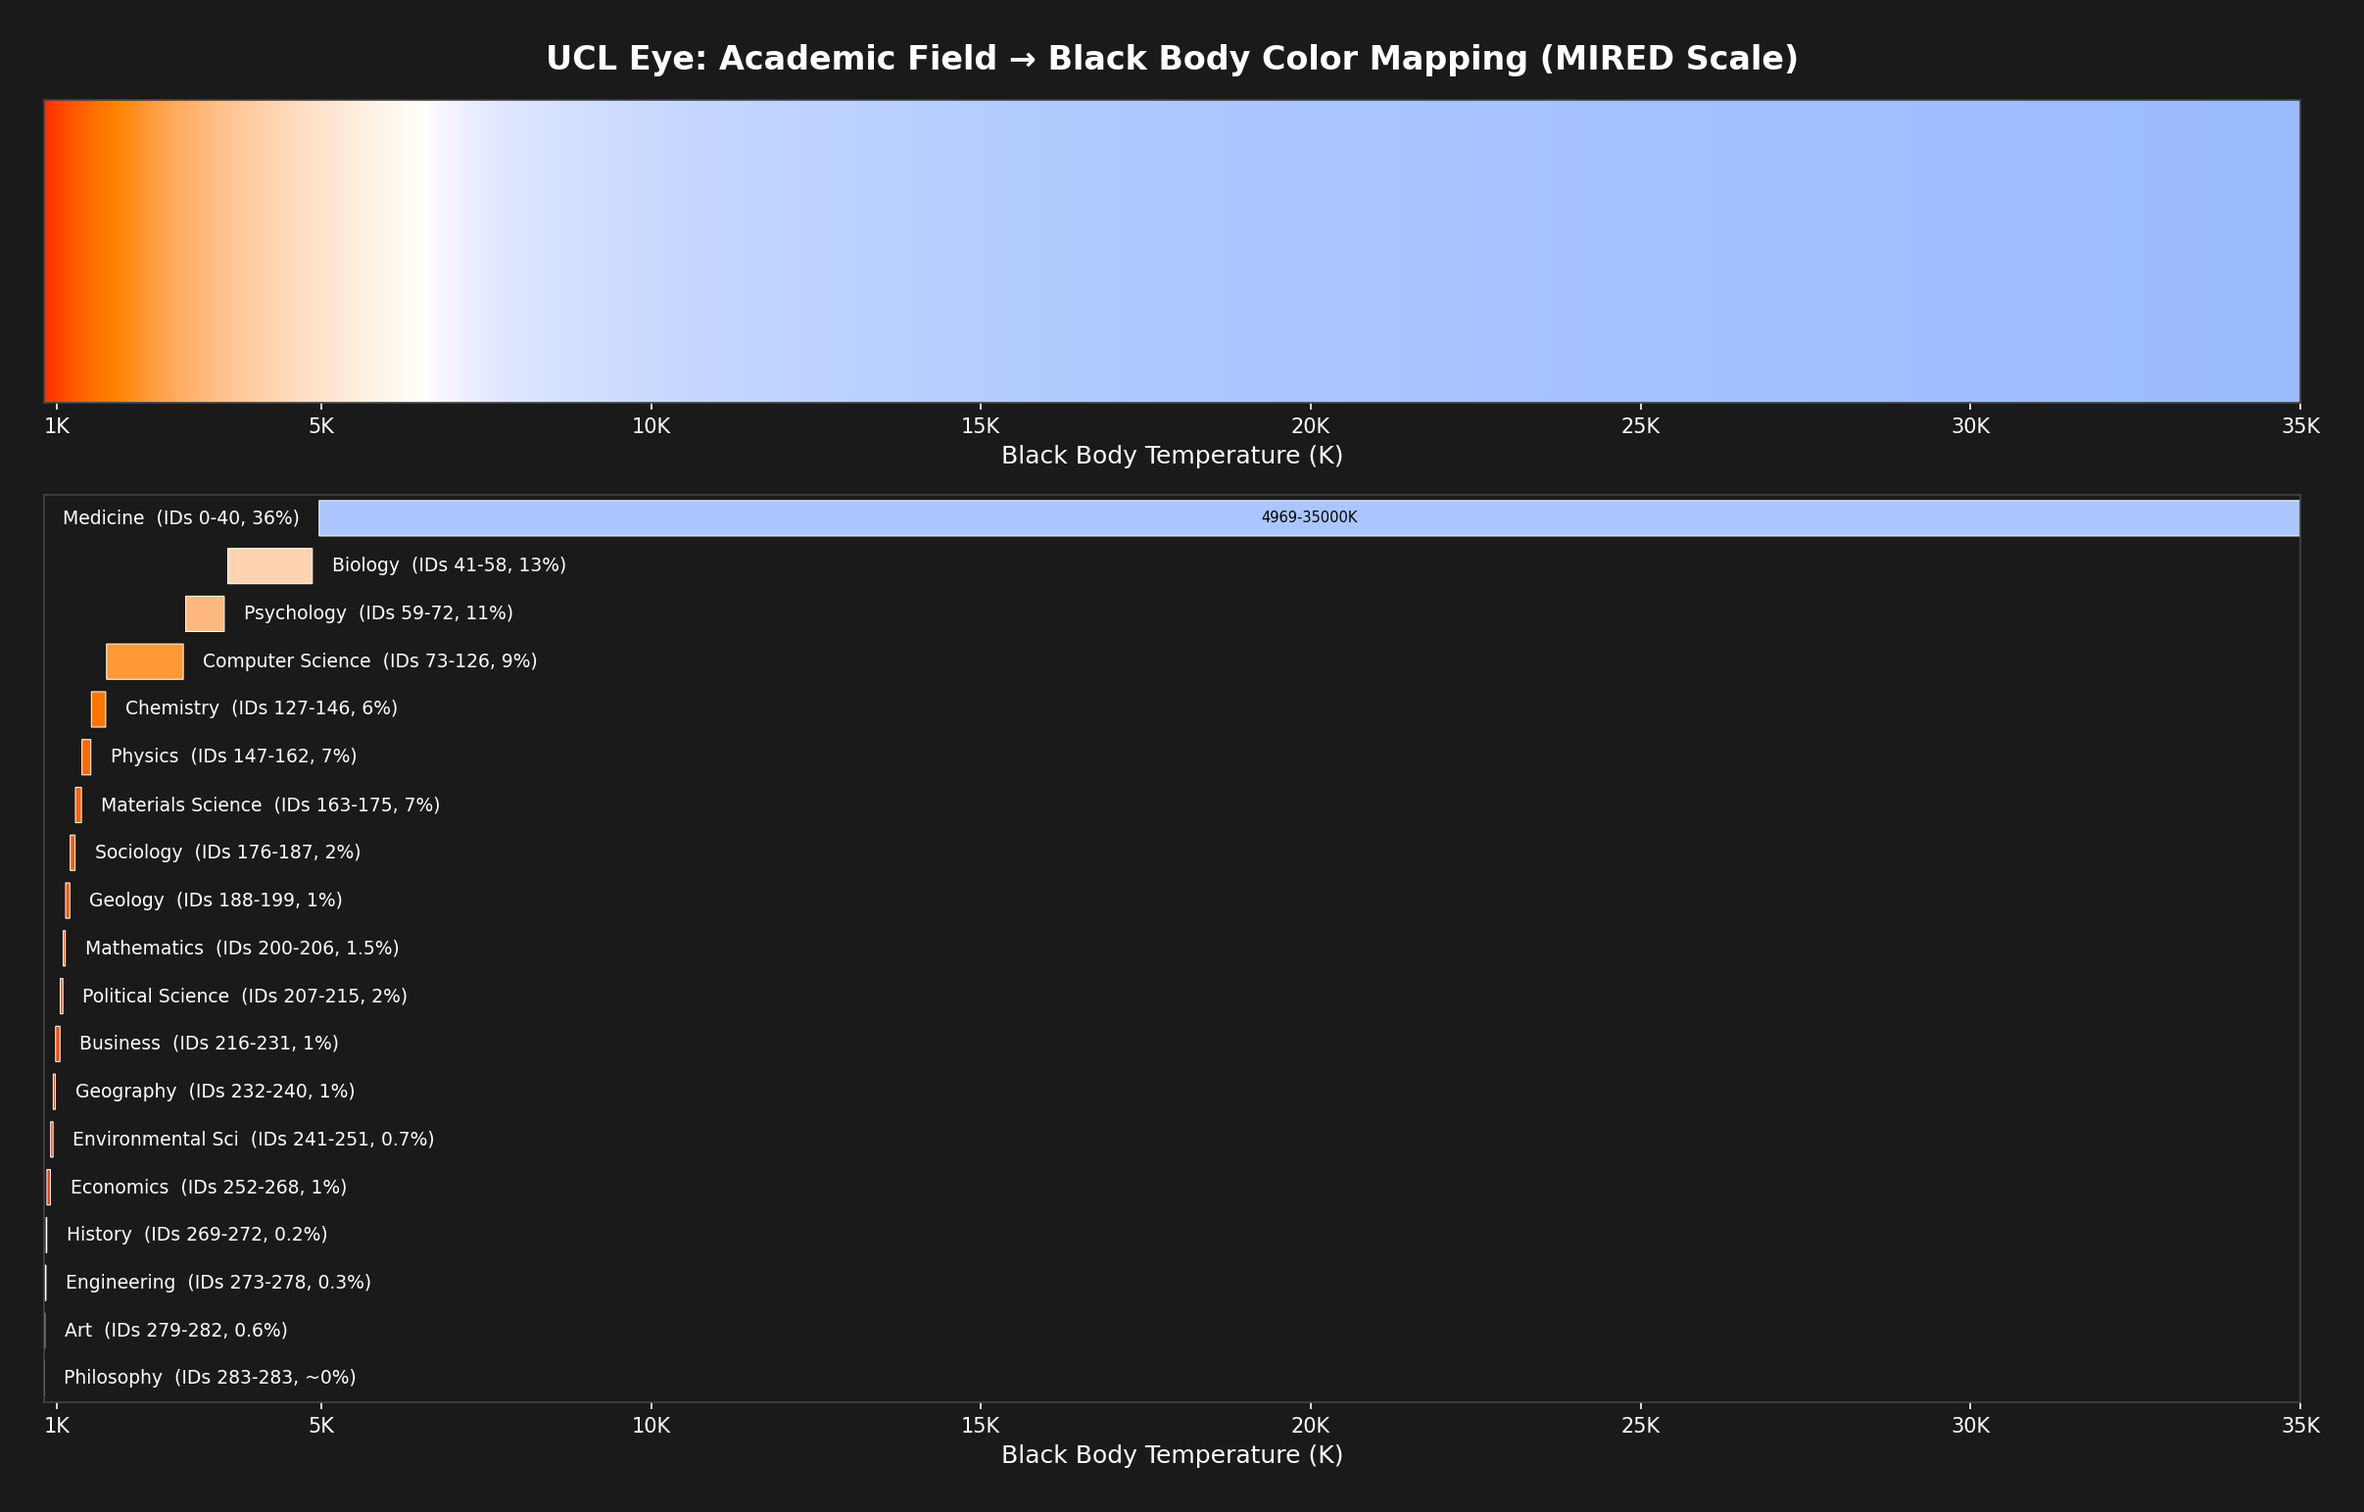
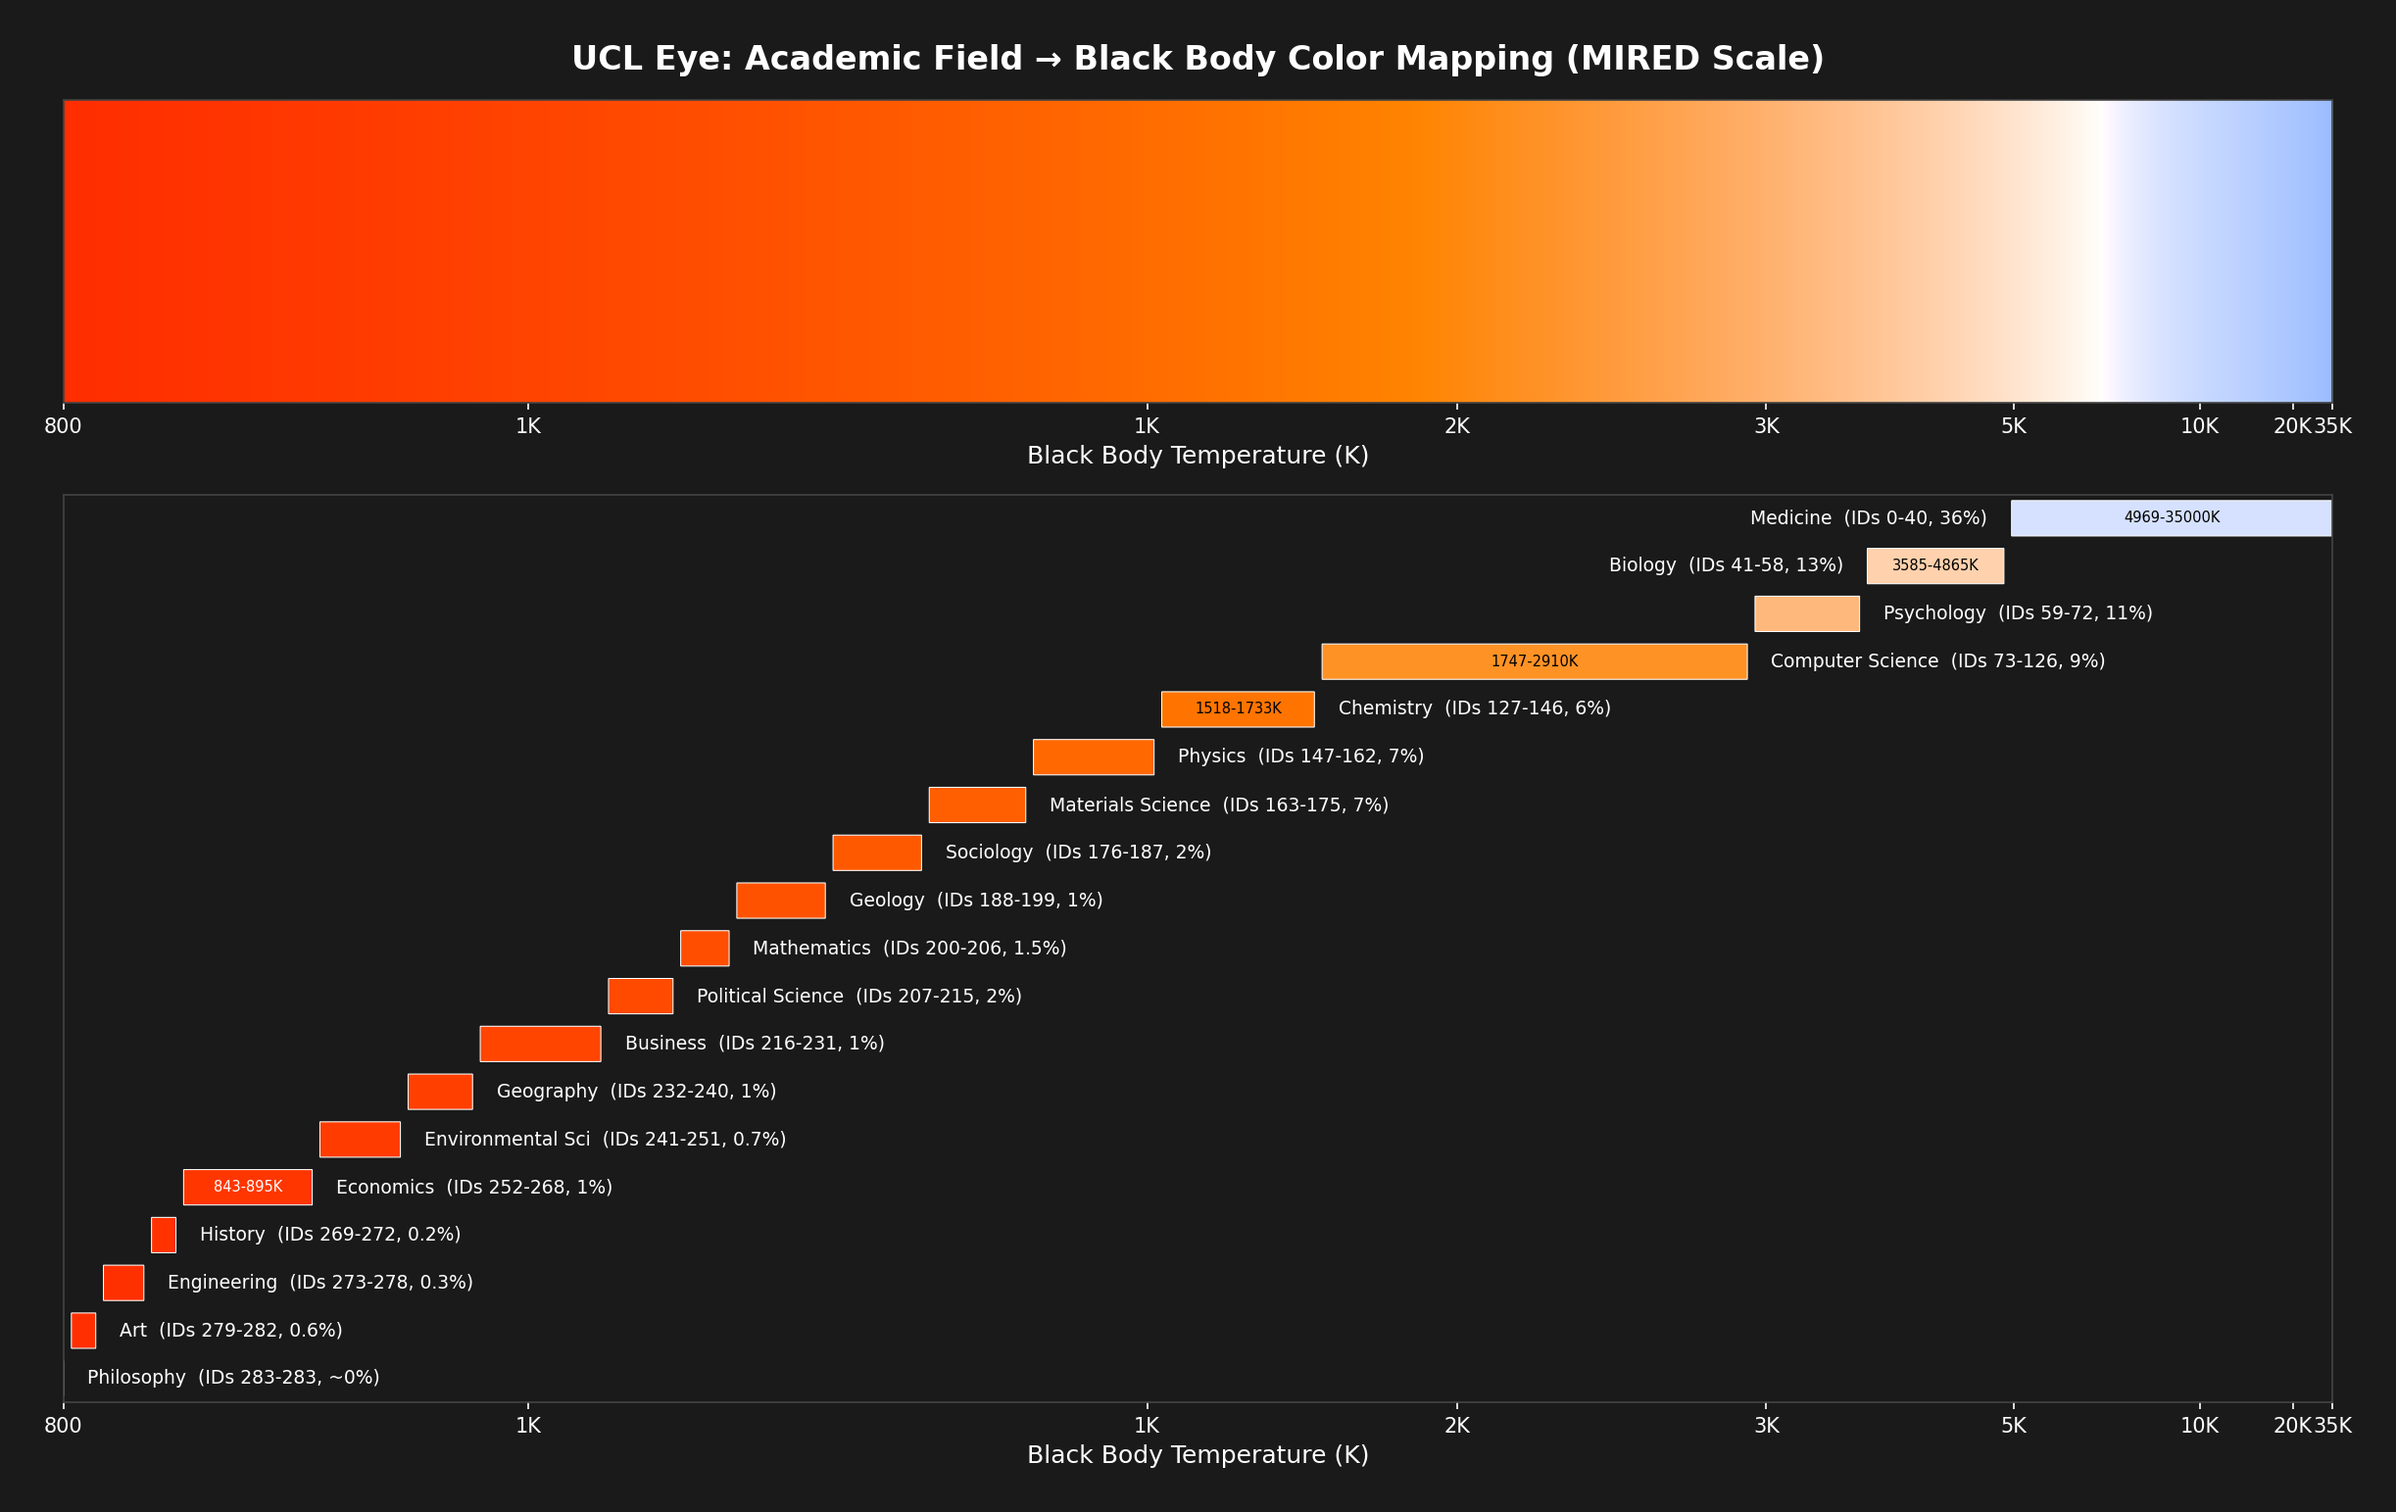
field_color_map: lay out entire figure in MIRED-linear space
X-axis is now linear in MIRED (reciprocal temperature) rather than
linear in temperature. Spectrum bar, category bars, and tick labels
all use perceptual spacing. Categories are now evenly distributed
across the full figure width instead of bunched up at the red end.

Changed region(s): [[0.0, 0.0311, 0.9946, 0.9332], [0.4041, 0.9332, 0.5595, 0.9644], [0.0, 0.5599, 0.0311, 0.6222]]

diff --git a/publication_galaxy_claude/field_color_map.py b/publication_galaxy_claude/field_color_map.py
@@ -75,6 +75,20 @@ def field_id_to_temp(field_id):
     return 1.0 / mired
 
 
+def temp_to_x(temp):
+    """Convert temperature to x-axis position (MIRED-linear space).
+
+    x-axis is linear in field_id (= linear in MIRED), flipped so red is left.
+    x = MAX_FIELD - field_id, so x=0 → field 283 (800K, red), x=283 → field 0 (35000K, blue).
+    """
+    mired = 1.0 / temp
+    mired_min = 1.0 / T_MAX  # blue end
+    mired_max = 1.0 / T_MIN  # red end
+    frac = (mired - mired_min) / (mired_max - mired_min)  # 0 at blue, 1 at red
+    field_id = frac * MAX_FIELD
+    return MAX_FIELD - field_id  # flip: red=left (x=0), blue=right (x=283)
+
+
 # 19 parent categories sorted by frequency in dataset.
 # IDs match GROUPED_FIELD_L1_IDS in molecular-plus/simulate.py
 CATEGORIES = [
@@ -109,13 +123,18 @@ def generate_figure(output_path="field_color_map_labeled.png", dpi=150):
         facecolor='#1a1a1a'
     )
 
-    # Top: continuous spectrum bar (red left, blue right)
+    # X-axis is linear in MIRED space (field_id), range [0, MAX_FIELD].
+    # x=0 → field 283 (T=800K, red, left), x=283 → field 0 (T=35000K, blue, right).
+
+    # Top: continuous spectrum bar sampled in MIRED space
     gradient = np.zeros((50, 1000, 3))
-    for x in range(1000):
-        temp = T_MIN + (x / 999) * (T_MAX - T_MIN)
-        gradient[:, x] = blackbody_to_rgb(temp)
-    ax_spec.imshow(gradient, aspect='auto', extent=[T_MIN, T_MAX, 0, 1])
-    ax_spec.set_xlim(T_MIN, T_MAX)
+    for px in range(1000):
+        x = (px / 999) * MAX_FIELD
+        field_id = MAX_FIELD - x  # x=0 → field 283 (red), x=283 → field 0 (blue)
+        temp = field_id_to_temp(field_id)
+        gradient[:, px] = blackbody_to_rgb(temp)
+    ax_spec.imshow(gradient, aspect='auto', extent=[0, MAX_FIELD, 0, 1])
+    ax_spec.set_xlim(0, MAX_FIELD)
     ax_spec.set_xlabel('Black Body Temperature (K)', color='white', fontsize=12)
     ax_spec.set_yticks([])
     ax_spec.tick_params(colors='white')
@@ -125,40 +144,42 @@ def generate_figure(output_path="field_color_map_labeled.png", dpi=150):
         color='white', fontsize=16, fontweight='bold', pad=15
     )
 
-    temps = [1000, 5000, 10000, 15000, 20000, 25000, 30000, 35000]
-    ax_spec.set_xticks(temps)
-    ax_spec.set_xticklabels([f'{t // 1000}K' for t in temps], fontsize=10)
+    # Temperature tick labels at MIRED-spaced positions
+    tick_temps = [800, 1000, 1500, 2000, 3000, 5000, 10000, 20000, 35000]
+    tick_positions = [temp_to_x(t) for t in tick_temps]
+    tick_labels = [f'{t // 1000}K' if t >= 1000 else f'{t}' for t in tick_temps]
+    ax_spec.set_xticks(tick_positions)
+    ax_spec.set_xticklabels(tick_labels, fontsize=10)
 
-    # Bottom: category bars positioned by MIRED-mapped temperature
+    # Bottom: category bars in MIRED-linear space
     ax_cats.set_facecolor('#1a1a1a')
-    ax_cats.set_xlim(T_MIN, T_MAX)
+    ax_cats.set_xlim(0, MAX_FIELD)
     ax_cats.set_ylim(-0.5, len(CATEGORIES) - 0.5)
     ax_cats.invert_yaxis()
 
     for i, (fid_start, fid_end, name, pct) in enumerate(CATEGORIES):
-        # MIRED mapping: higher field IDs → lower temperatures (red)
-        t_start = field_id_to_temp(fid_start)  # higher T (bluer)
-        t_end = field_id_to_temp(fid_end)       # lower T (redder)
+        # Position in MIRED-linear x space (red=left, blue=right)
+        x_left = MAX_FIELD - fid_end     # red side of this category
+        x_right = MAX_FIELD - fid_start  # blue side of this category
+        bar_width = x_right - x_left
+        x_mid = (x_left + x_right) / 2
 
-        # Ensure t_lo < t_hi for bar positioning (left to right)
-        t_lo = min(t_start, t_end)
-        t_hi = max(t_start, t_end)
-        t_mid = (t_lo + t_hi) / 2
-        color = blackbody_to_rgb(t_mid)
+        # Color from midpoint temperature
+        mid_field_id = (fid_start + fid_end) / 2
+        temp_mid = field_id_to_temp(mid_field_id)
+        color = blackbody_to_rgb(temp_mid)
 
-        bar_width = t_hi - t_lo
         rect = mpatches.FancyBboxPatch(
-            (t_lo, i - 0.35), bar_width, 0.7,
+            (x_left, i - 0.35), bar_width, 0.7,
             boxstyle="round,pad=0.02",
             facecolor=color, edgecolor='white', linewidth=0.5
         )
         ax_cats.add_patch(rect)
 
         # Label to the right of the bar
-        label_x = t_hi + 300
-        # If bar extends to near the right edge, put label to the left instead
-        if label_x + 5000 > T_MAX:
-            label_x = t_lo - 300
+        label_x = x_right + 3
+        if label_x + 40 > MAX_FIELD:
+            label_x = x_left - 3
             ha = 'right'
         else:
             ha = 'left'
@@ -170,16 +191,18 @@ def generate_figure(output_path="field_color_map_labeled.png", dpi=150):
 
         # Temperature label inside bar if wide enough
         brightness = 0.299 * color[0] + 0.587 * color[1] + 0.114 * color[2]
-        if bar_width > 2000:
+        if bar_width > 15:
+            t_lo = int(min(field_id_to_temp(fid_start), field_id_to_temp(fid_end)))
+            t_hi = int(max(field_id_to_temp(fid_start), field_id_to_temp(fid_end)))
             text_color = 'black' if brightness > 0.5 else 'white'
             ax_cats.text(
-                t_mid, i, f'{int(t_lo)}-{int(t_hi)}K',
+                x_mid, i, f'{t_lo}-{t_hi}K',
                 va='center', ha='center', fontsize=7, color=text_color
             )
 
     ax_cats.set_yticks([])
-    ax_cats.set_xticks(temps)
-    ax_cats.set_xticklabels([f'{t // 1000}K' for t in temps], fontsize=10, color='white')
+    ax_cats.set_xticks(tick_positions)
+    ax_cats.set_xticklabels(tick_labels, fontsize=10, color='white')
     ax_cats.tick_params(colors='white')
     ax_cats.set_xlabel('Black Body Temperature (K)', color='white', fontsize=12)
 
